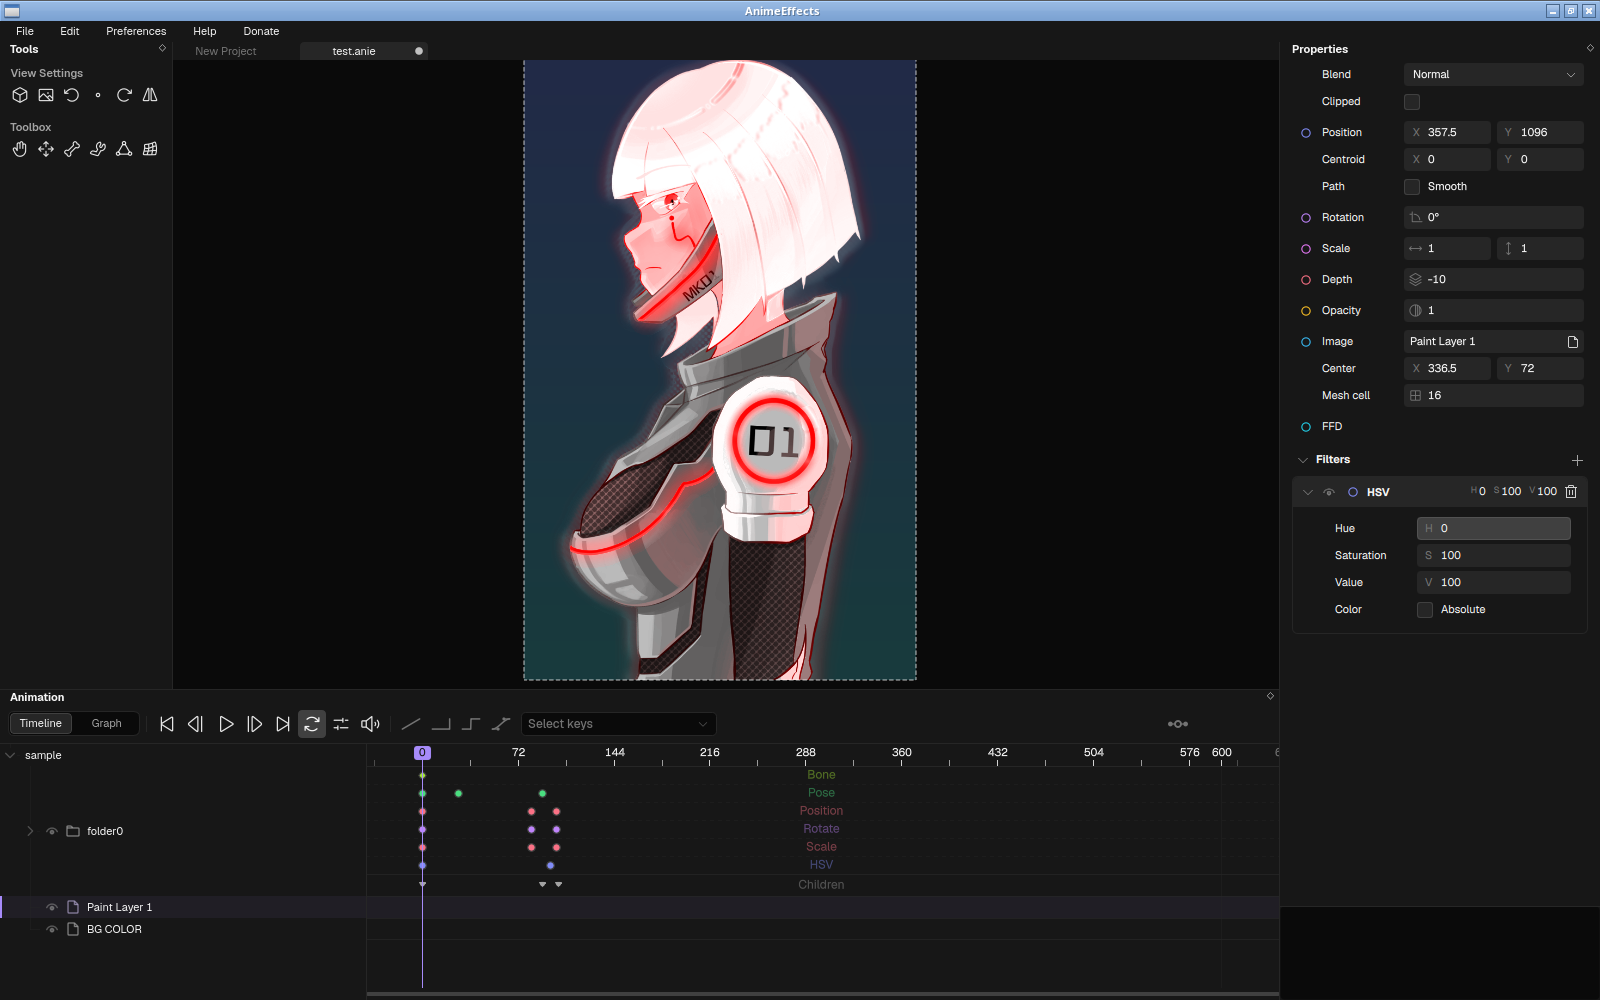
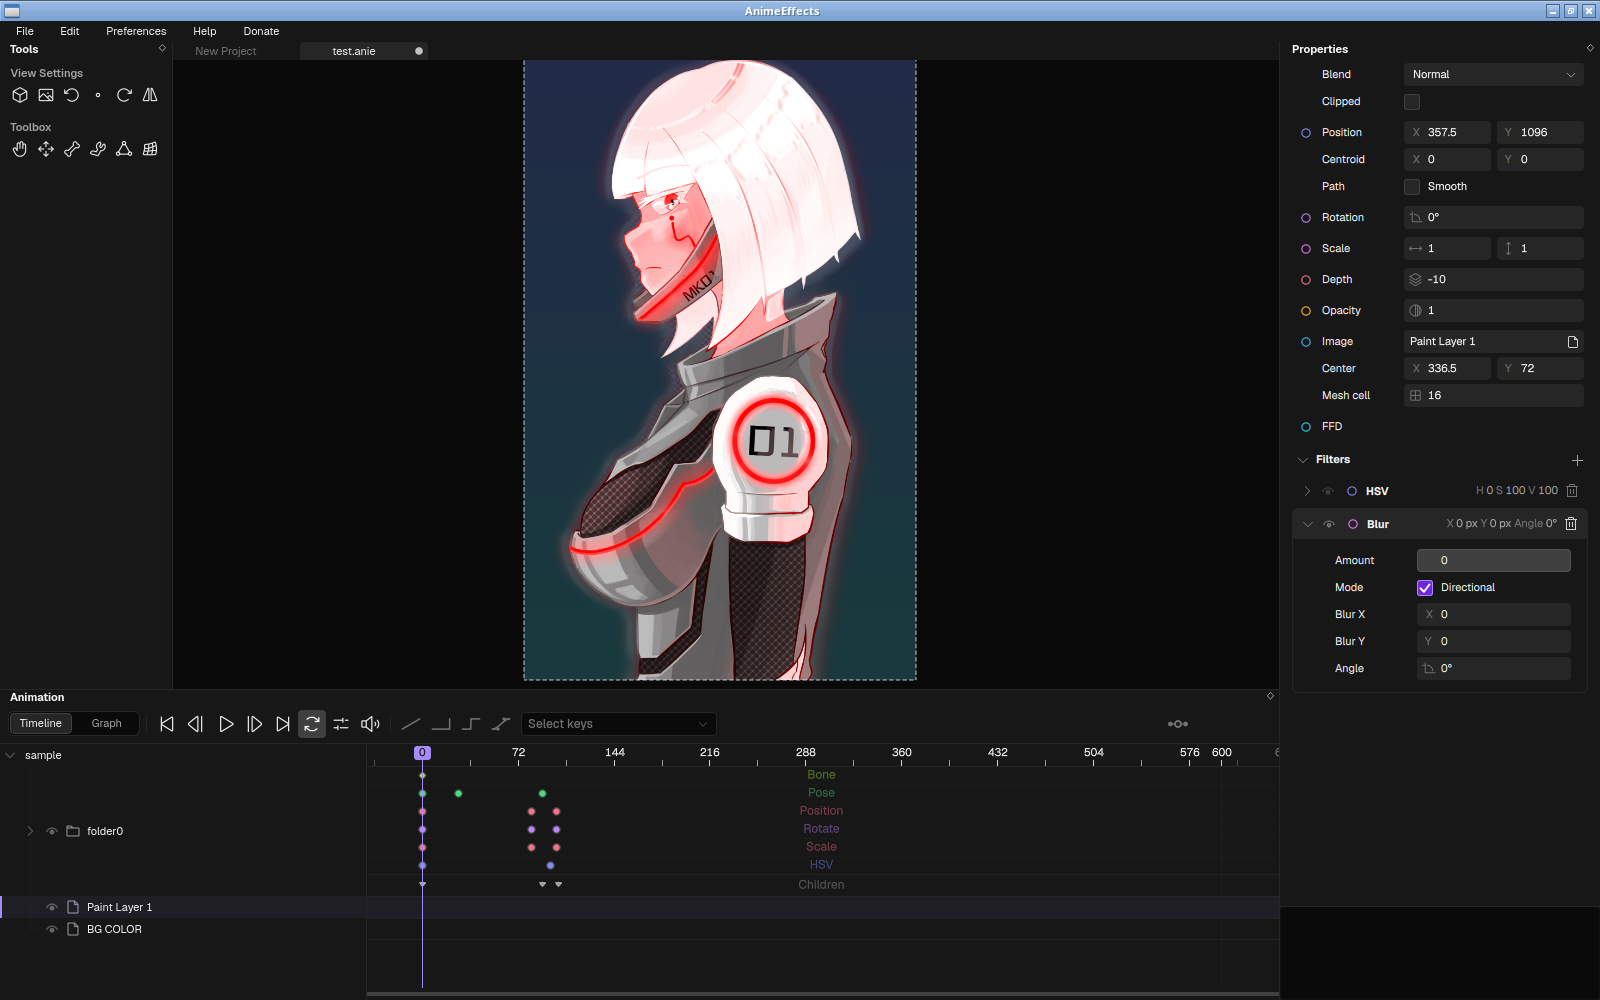
properties: match summary precision and spacing
- give every filter a one-line summary from summarySegments: labels are
  textMutedDim, values keep textMuted, both at one size; no full-opacity values
- trim summary numbers with the same rule as the fields, so Blur shows 0, not
  0.0, and Angle shows 0 degrees, not 0.0 degrees
- separate summary items with an em space and label/value with one ordinary
  space so the grouping is readable
- Blur summaries cover Amount or X/Y/Angle when directional

Changed region(s): [[0.8125, 0.465, 1.0, 0.62]]

diff --git a/src/gui/qml/InspectorFilterCard.qml b/src/gui/qml/InspectorFilterCard.qml
@@ -53,6 +53,21 @@ Item {
     signal dragMoved(int index, real sceneY)
     signal dragEnded(int index, real sceneY)
 
+    // The summary stays ONE line of one size. Only the axis/field labels are
+    // dimmer; values keep the original muted summary ink.
+    function summaryHtml() {
+        const segments = filterRow.summarySegments;
+        if (!segments || segments.length === 0)
+            return filterRow.summary;
+        const parts = [];
+        for (let i = 0; i < segments.length; ++i) {
+            const segment = segments[i];
+            parts.push('<font color="' + String(theme.textMutedDim) + '">'
+                       + segment.label + '</font> ' + segment.value);
+        }
+        return parts.join("\u2003");
+    }
+
     width: parent ? parent.width : 0
     height: headerItem.height + body.height + (filterRow.expanded ? 2 : 0)
     Accessible.role: Accessible.Grouping
@@ -180,66 +195,15 @@ Item {
                 Layout.fillWidth: true
                 Layout.preferredHeight: 20
 
-                // HSV's header is a compact labelled readout, not the same
-                // string as the title: the axis letters are a step smaller and
-                // dimmer, the values stay at the body face and full ink.
-                Row {
-                    visible: filterRow.kind === "hsv"
-                    anchors.right: parent.right
-                    anchors.verticalCenter: parent.verticalCenter
-                    spacing: 8
-
-                    Row {
-                        spacing: 2
-                        Text {
-                            text: "H"
-                            color: theme.textMutedDim
-                            font.family: uiFont.family
-                            font.pointSize: Math.max(1, uiFont.pointSize - 1)
-                        }
-                        Text {
-                            text: filterRow.hue
-                            color: filterRow.enabled ? theme.text : theme.textDisabled
-                            font: uiFont
-                        }
-                    }
-                    Row {
-                        spacing: 2
-                        Text {
-                            text: "S"
-                            color: theme.textMutedDim
-                            font.family: uiFont.family
-                            font.pointSize: Math.max(1, uiFont.pointSize - 1)
-                        }
-                        Text {
-                            text: filterRow.saturation
-                            color: filterRow.enabled ? theme.text : theme.textDisabled
-                            font: uiFont
-                        }
-                    }
-                    Row {
-                        spacing: 2
-                        Text {
-                            text: "V"
-                            color: theme.textMutedDim
-                            font.family: uiFont.family
-                            font.pointSize: Math.max(1, uiFont.pointSize - 1)
-                        }
-                        Text {
-                            text: filterRow.value
-                            color: filterRow.enabled ? theme.text : theme.textDisabled
-                            font: uiFont
-                        }
-                    }
-                }
-
                 Text {
-                    visible: filterRow.kind !== "hsv"
+                    anchors.left: parent.left
                     anchors.right: parent.right
                     anchors.verticalCenter: parent.verticalCenter
-                    text: filterRow.summary
+                    textFormat: Text.StyledText
+                    text: root.summaryHtml()
                     color: theme.textMuted
                     font: uiFont
+                    horizontalAlignment: Text.AlignRight
                     elide: Text.ElideRight
                 }
             }

diff --git a/src/gui/qml/FilterStackModel.cpp b/src/gui/qml/FilterStackModel.cpp
@@ -31,6 +31,19 @@ QString displayName(core::TimeKeyType aType) {
 bool isStackFilter(core::TimeKeyType aType) {
     return aType == core::TimeKeyType_HSV || aType == core::TimeKeyType_Blur;
 }
+
+// Same display rule as ScrubSpinBox's trimTrailingZeros: the summary must not
+// show 0.0 when the field shows 0.
+QString summaryNumber(double aValue, int aDecimals) {
+    QString text = QString::number(aValue, 'f', aDecimals);
+    if (text.contains('.')) {
+        while (text.endsWith('0'))
+            text.chop(1);
+        if (text.endsWith('.'))
+            text.chop(1);
+    }
+    return text == QStringLiteral("-0") ? QStringLiteral("0") : text;
+}
 } // namespace
 
 FilterRowModel::FilterRowModel(core::TimeKeyType aType, InspectorViewModel& aOwner, QObject* aParent):
@@ -60,9 +73,16 @@ void FilterRowModel::refresh() {
         keyState = QStringLiteral("animated");
 
     const QColor keyColor = theme::keyTypeColor(theme::Colors::current(), mType);
-    const QVariantList before{mEnabled, mKeyState, mKeyColor, mSummary, mHue, mSaturation,
-                              mValue, mAbsolute, mAmount, mDirectional, mBlurX, mBlurY,
-                              mBlurAngle};
+    const QVariantList before{mEnabled, mKeyState, mKeyColor, mSummary, mSummarySegments, mHue,
+                              mSaturation, mValue, mAbsolute, mAmount, mDirectional, mBlurX,
+                              mBlurY, mBlurAngle};
+    QVariantList summarySegments;
+    const auto addSummary = [&summarySegments](const QString& aLabel, const QString& aValue) {
+        QVariantMap segment;
+        segment.insert(QStringLiteral("label"), aLabel);
+        segment.insert(QStringLiteral("value"), aValue);
+        summarySegments.append(segment);
+    };
 
     mEnabled = enabled;
     mKeyState = keyState;
@@ -76,6 +96,9 @@ void FilterRowModel::refresh() {
         mValue = values.size() > 2 ? values.at(2) : 100;
         mAbsolute = values.size() > 3 && values.at(3) != 0;
         mSummary = trFilter("H %1  S %2  V %3").arg(mHue).arg(mSaturation).arg(mValue);
+        addSummary(QStringLiteral("H"), QString::number(mHue));
+        addSummary(QStringLiteral("S"), QString::number(mSaturation));
+        addSummary(QStringLiteral("V"), QString::number(mValue));
     } else if (isBlur()) {
         const auto data = mOwner.accessor().blurData();
         const bool hasExplicit = line->hasTimeKey(mType, frame);
@@ -90,14 +113,26 @@ void FilterRowModel::refresh() {
         mBlurAngle = current.angleDeg();
         if (data.amount() != mAmount) // keep the accessor's exact read for a static default
             mAmount = data.amount();
+        const QString blurX = summaryNumber(double(mBlurX), 1);
+        const QString blurY = summaryNumber(double(mBlurY), 1);
+        const QString blurAngle = summaryNumber(double(mBlurAngle), 1);
+        const QString amount = summaryNumber(double(mAmount), 1);
         mSummary = mDirectional
-            ? trFilter("%1 × %2 px").arg(double(mBlurX), 0, 'f', 1).arg(double(mBlurY), 0, 'f', 1)
-            : trFilter("%1 px").arg(double(mAmount), 0, 'f', 1);
+            ? trFilter("X %1 px  Y %2 px  Angle %3°").arg(blurX, blurY, blurAngle)
+            : trFilter("Amount %1 px").arg(amount);
+        if (mDirectional) {
+            addSummary(QStringLiteral("X"), blurX + QStringLiteral(" px"));
+            addSummary(QStringLiteral("Y"), blurY + QStringLiteral(" px"));
+            addSummary(trFilter("Angle"), blurAngle + QStringLiteral("°"));
+        } else {
+            addSummary(trFilter("Amount"), amount + QStringLiteral(" px"));
+        }
     }
+    mSummarySegments = summarySegments;
 
-    const QVariantList after{mEnabled, mKeyState, mKeyColor, mSummary, mHue, mSaturation,
-                             mValue, mAbsolute, mAmount, mDirectional, mBlurX, mBlurY,
-                             mBlurAngle};
+    const QVariantList after{mEnabled, mKeyState, mKeyColor, mSummary, mSummarySegments, mHue,
+                             mSaturation, mValue, mAbsolute, mAmount, mDirectional, mBlurX,
+                             mBlurY, mBlurAngle};
     if (before != after)
         emit changed();
 }

diff --git a/src/gui/qml/FilterStackModel.h b/src/gui/qml/FilterStackModel.h
@@ -24,6 +24,7 @@ class FilterRowModel: public QObject {
     Q_PROPERTY(QString keyState READ keyState NOTIFY changed)
     Q_PROPERTY(QColor keyColor READ keyColor NOTIFY changed)
     Q_PROPERTY(QString summary READ summary NOTIFY changed)
+    Q_PROPERTY(QVariantList summarySegments READ summarySegments NOTIFY changed)
     Q_PROPERTY(QString hueLabel READ hueLabel CONSTANT)
     Q_PROPERTY(QString saturationLabel READ saturationLabel CONSTANT)
     Q_PROPERTY(QString valueLabel READ valueLabel CONSTANT)
@@ -57,6 +58,7 @@ public:
     QString keyState() const { return mKeyState; }
     QColor keyColor() const { return mKeyColor; }
     QString summary() const { return mSummary; }
+    QVariantList summarySegments() const { return mSummarySegments; }
     QString hueLabel() const { return QCoreApplication::translate("gui::prop::FilterStackPanel", "Hue"); }
     QString saturationLabel() const { return QCoreApplication::translate("gui::prop::FilterStackPanel", "Saturation"); }
     QString valueLabel() const { return QCoreApplication::translate("gui::prop::FilterStackPanel", "Value"); }
@@ -113,6 +115,7 @@ private:
     QString mKeyState;
     QColor mKeyColor;
     QString mSummary;
+    QVariantList mSummarySegments;
 
     int mHue = 0;
     int mSaturation = 100;

diff --git a/AGENTS.md b/AGENTS.md
@@ -3802,14 +3802,17 @@ field reserves the same 24px lead-in, and a fixed 15px slot from x=4..19 fits/ce
 absent, and values stay LEFT-aligned. Prefix glyphs are rasterized at their physical footprint (`sourceSize = 15 * devicePixelRatio`) from
 the official Phosphor FILL assets (`.../assets/regular`) - not the raw stroke assets, which Qt
 rasterizes poorly at this size. The chosen vocabulary: Position/Centroid/Image Center use
-`X`/`Y`; Scale uses Phosphor `arrows-horizontal`/`arrows-vertical`; Depth uses `depth` (the cube
-glyph); Opacity uses `circle-half`; Mesh cell uses `grid-four`; Rotation/Blur angle use the official
+`X`/`Y`; Scale uses Phosphor `arrows-horizontal`/`arrows-vertical`; Depth uses `stack` (layers/z-
+order); Opacity uses `circle-half`; Mesh cell uses `grid-four`; Rotation/Blur angle use the official
 Phosphor `angle` glyph plus a `°` suffix; HSV uses `H`/`S`/`V`. Prefix text and every glyph use the
-SAME `theme.textMutedDim` token and the same opacity (icon roles `MutedDim`). The HSV card's header
-readout is a composed row, not one string: H/S/V are one point smaller in `textMutedDim`, while the
-values use the body face and full `text` ink, so the title, axes and values have three levels. The degree suffix is announced
-as "Degrees"; no other unit was invented. Icons live in `assets/icons/ph/` and are tinted by the
-existing role table.
+SAME `theme.textMutedDim` token and the same opacity (icon roles `MutedDim`). Every filter header
+summary comes from `FilterRowModel::summarySegments` and is rendered as ONE StyledText line at ONE
+size: the bold title is full ink, labels are `textMutedDim`, values stay the original `textMuted`.
+There is no smaller label, no second row and no full-opacity value. Summary numbers use the same
+`summaryNumber` trim as the fields (so `0` never becomes `0.0`), and the item separator is an em
+space while label/value uses one ordinary space. Blur uses `Amount`, or `X`/`Y`/`Angle` when
+directional. The degree suffix is announced as "Degrees"; no other unit was
+invented. Icons live in `assets/icons/ph/` and are tinted by the existing role table.
 
 **Verified:** `scripts/run_suites.sh Debug` = 57 pass / 0 fail on the tree that removes the widget
 classes; `inspector_view_model` pins model-2 writes, key toggles, filter add/reorder/enable/remove,
